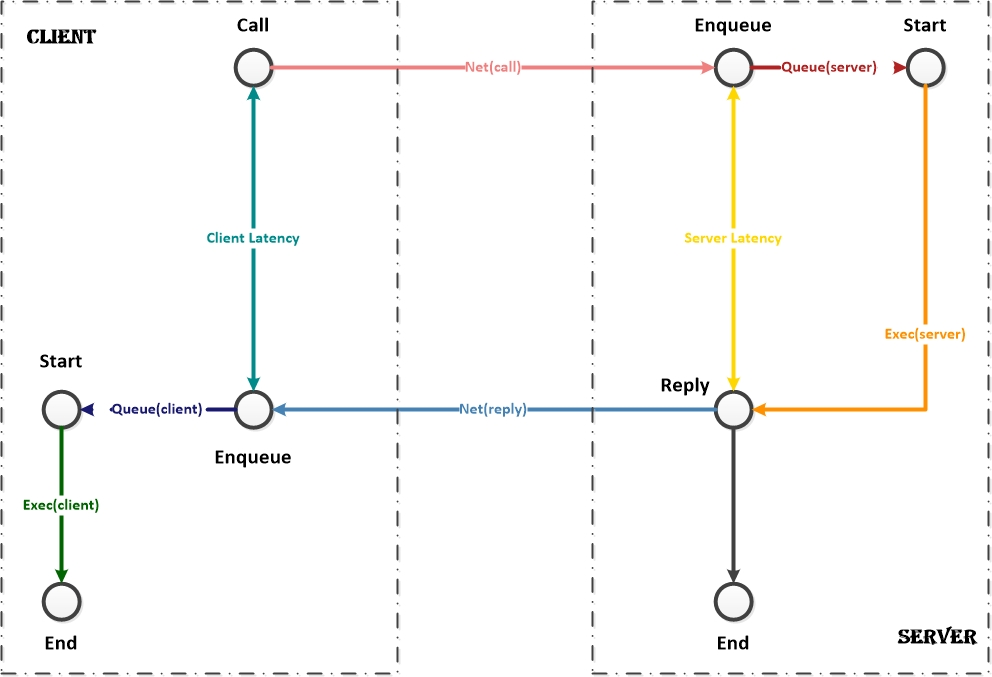
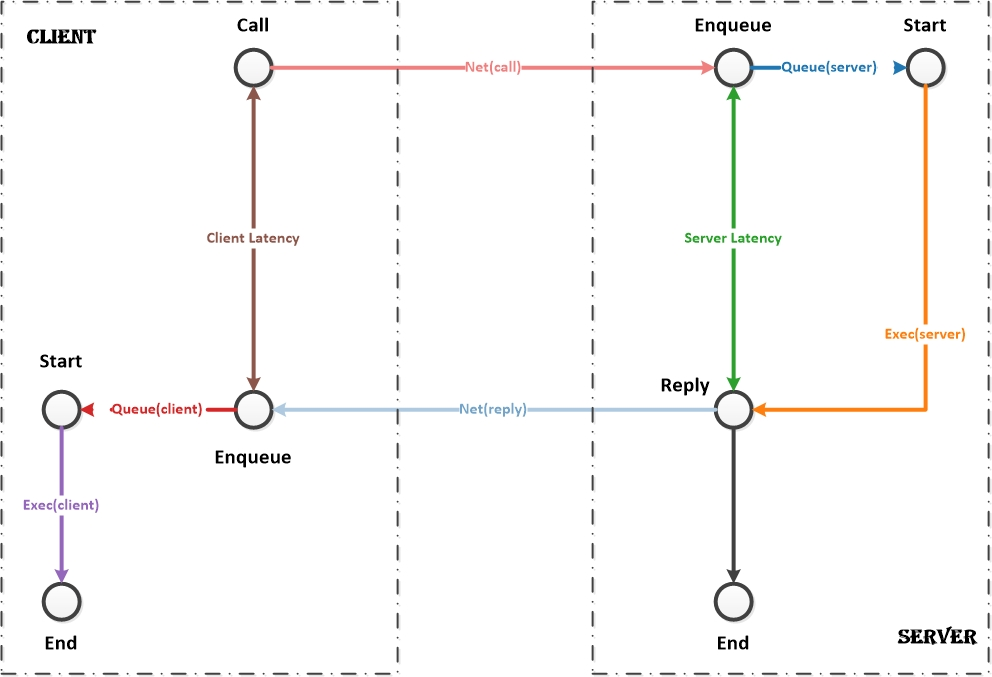
Redraw the helpgraph and make colors from all displays consistent

diff --git a/src/apps/rDSN.monitor/app_package/static/view/perValue1.html b/src/apps/rDSN.monitor/app_package/static/view/perValue1.html
@@ -18,13 +18,14 @@ var chart = c3.generate({
 	{% endfor %}
         ],
         type: 'scatter',
-	colors: {
-            "QUEUE(ns)@server": '#B22222',
-            "EXEC(ns)@server": '#FF8C00',
-            "RPC.SERVER(ns)@server": '#FFD700',
-            "QUEUE(ns)@client": '#191970',
-            "EXEC(ns)@client": '#006400',
-            "RPC.CLIENT(ns)@client": '#008B8B',
+        colors: {
+            'QUEUE(ns)@server': '#1F77B4',
+            'EXEC(ns)@server': '#FF7F0E',
+            'RPC.SERVER(ns)@server': '#2CA02C',
+            'QUEUE(ns)@client': '#D62728',
+            'EXEC(ns)@client': '#9467BD',
+            'RPC.CLIENT(ns)@client': '#8C564B',
+            "AIO.LATENCY(ns)": '#00FF00',
         },
     },
     subchart: {

diff --git a/src/apps/rDSN.monitor/app_package/static/view/perValue2.html b/src/apps/rDSN.monitor/app_package/static/view/perValue2.html
@@ -9,13 +9,23 @@ var chart = c3.generate({
         columns: [
             ['x' {% for i in range(20) %}, {{i}}{% endfor %} ],
 	        {% for row in TABLEDATA %}['{{row.name}}' {% for i in range(20) %},0{% endfor %} ],{% endfor %}
-        ]
+        ],
+        colors: {
+            'QUEUE(ns)@server': '#1F77B4',
+            'EXEC(ns)@server': '#FF7F0E',
+            'RPC.SERVER(ns)@server': '#2CA02C',
+            'QUEUE(ns)@client': '#D62728',
+            'EXEC(ns)@client': '#9467BD',
+            'RPC.CLIENT(ns)@client': '#8C564B',
+            "AIO.LATENCY(ns)": '#00FF00',
+        },
     },
     axis: {
         x: {
             show:false
         }
     },
+    
 });
 
 function updateData(a)

diff --git a/src/apps/rDSN.monitor/app_package/static/view/perValue3.html b/src/apps/rDSN.monitor/app_package/static/view/perValue3.html
@@ -21,11 +21,11 @@ var chart = c3.generate({
         type: 'bar',
 	colors: {
             "net(call)": '#F08080',
-            "queue(server)": '#B22222',
-            "exec(server)": '#FF8C00',
-            "net(reply)": '#4682B4',
-            "queue(client)": '#191970',
-            "exec(client)": '#006400',
+            "queue(server)": '#1F77B4',
+            "exec(server)": '#FF7F0E',
+            "net(reply)": '#AFCAE0',
+            "queue(client)": '#D62728',
+            "exec(client)": '#9467BD',
             "aio": '#00FF00',
         },
         groups: [
